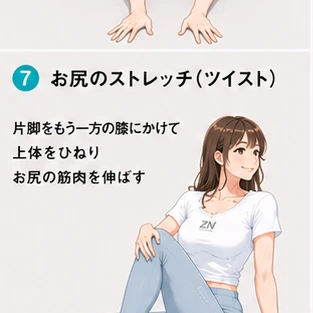
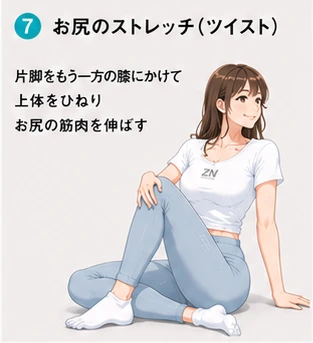
fix: ポーズライブラリを実際の行境界で再切り出し（行高不均等対応）＋実寸をマニフェスト化
Claude-Session: https://claude.ai/code/session_018ivnCRW7SkjvhERUruywpd

diff --git a/src/data/stretchPoses.ts b/src/data/stretchPoses.ts
@@ -13,6 +13,9 @@
 export type StretchPose = {
   /** 画像パス（public/images/stretch-poses/） */
   file: string;
+  /** 画像の実寸（imgタグのwidth/heightにそのまま使う） */
+  width: number;
+  height: number;
   /** カードに書かれているタイトル */
   name: string;
   /** カードに書かれている手順（記事の手順はこれと矛盾しないこと） */
@@ -22,20 +25,20 @@ export type StretchPose = {
 };
 
 export const STRETCH_POSES: StretchPose[] = [
-  { file: '/images/stretch-poses/pose-01.webp', name: '首・肩のストレッチ', desc: '首を横に倒して反対側の肩をやさしく伸ばす', position: '座位または立位' },
-  { file: '/images/stretch-poses/pose-02.webp', name: 'ハムストリングのストレッチ', desc: '片脚を前に伸ばして上体を前に倒し、もも裏を伸ばす', position: '床・座位' },
-  { file: '/images/stretch-poses/pose-03.webp', name: '股関節（開脚前屈）のストレッチ', desc: '脚を開いて上体を前に倒し、股関節まわりをゆっくり伸ばす', position: '床・座位' },
-  { file: '/images/stretch-poses/pose-04.webp', name: 'ふくらはぎのストレッチ（壁）', desc: '壁に手をついて片脚を後ろに引き、ふくらはぎを伸ばす', position: '立位' },
-  { file: '/images/stretch-poses/pose-05.webp', name: '背中のストレッチ（キャット&カウ）', desc: '四つん這いで背中を丸めたり反らせて背骨をやさしく動かす', position: '床・四つん這い' },
-  { file: '/images/stretch-poses/pose-06.webp', name: '胸・肩のストレッチ', desc: '両手を後ろで組んで肩甲骨を寄せ、胸を開き肩まわりを伸ばす', position: '座位または立位' },
-  { file: '/images/stretch-poses/pose-07.webp', name: 'お尻のストレッチ（ツイスト）', desc: '片脚をもう一方の膝にかけて上体をひねり、お尻の筋肉を伸ばす', position: '床・座位' },
-  { file: '/images/stretch-poses/pose-08.webp', name: '大腿四頭筋のストレッチ', desc: '片脚を後ろに曲げて足首を持ち、太ももの前側を伸ばす', position: '立位' },
-  { file: '/images/stretch-poses/pose-09.webp', name: '腰回りのストレッチ（膝抱え込み）', desc: '仰向けで膝を胸に引き寄せて腰まわりをリラックスさせる', position: '床・仰向け' },
-  { file: '/images/stretch-poses/pose-10.webp', name: '体側のストレッチ', desc: '片手を上げて体を横に倒し、脇腹をやさしく伸ばす', position: '床・座位' },
-  { file: '/images/stretch-poses/pose-11.webp', name: '内もものストレッチ（バタフライ）', desc: '足の裏を合わせて膝を開き、内ももを伸ばす', position: '床・座位' },
-  { file: '/images/stretch-poses/pose-12.webp', name: '体幹・背中のストレッチ（スレッド・ザ・ニードル）', desc: '四つん這いから片腕を反対側の下に通し、背中や体側を伸ばす', position: '床・四つん這い' },
-  { file: '/images/stretch-poses/pose-13.webp', name: '前もものストレッチ（ランジ）', desc: '片脚を前に出して後ろ脚の付け根と前ももを伸ばす', position: '床・座位' },
-  { file: '/images/stretch-poses/pose-14.webp', name: '肩甲骨のストレッチ', desc: '腕を前に伸ばして背中を丸め、肩甲骨を広げる', position: '座位または立位' },
-  { file: '/images/stretch-poses/pose-15.webp', name: '足首のストレッチ', desc: '片脚を前に出してつま先を引き上げ、ふくらはぎと足首を伸ばす', position: '床・座位' },
-  { file: '/images/stretch-poses/pose-16.webp', name: '全身のストレッチ（ばんざい）', desc: '両手を上に伸ばして体を大きく伸ばし、全身をリフレッシュ', position: '座位または立位' },
+  { file: '/images/stretch-poses/pose-01.webp', width: 313, height: 366, name: '首・肩のストレッチ', desc: '首を横に倒して反対側の肩をやさしく伸ばす', position: '座位または立位' },
+  { file: '/images/stretch-poses/pose-02.webp', width: 312, height: 366, name: 'ハムストリングのストレッチ', desc: '片脚を前に伸ばして上体を前に倒し、もも裏を伸ばす', position: '床・座位' },
+  { file: '/images/stretch-poses/pose-03.webp', width: 313, height: 366, name: '股関節（開脚前屈）のストレッチ', desc: '脚を開いて上体を前に倒し、股関節まわりをゆっくり伸ばす', position: '床・座位' },
+  { file: '/images/stretch-poses/pose-04.webp', width: 316, height: 366, name: 'ふくらはぎのストレッチ（壁）', desc: '壁に手をついて片脚を後ろに引き、ふくらはぎを伸ばす', position: '立位' },
+  { file: '/images/stretch-poses/pose-05.webp', width: 313, height: 343, name: '背中のストレッチ（キャット&カウ）', desc: '四つん這いで背中を丸めたり反らせて背骨をやさしく動かす', position: '床・四つん這い' },
+  { file: '/images/stretch-poses/pose-06.webp', width: 312, height: 343, name: '胸・肩のストレッチ', desc: '両手を後ろで組んで肩甲骨を寄せ、胸を開き肩まわりを伸ばす', position: '座位または立位' },
+  { file: '/images/stretch-poses/pose-07.webp', width: 313, height: 343, name: 'お尻のストレッチ（ツイスト）', desc: '片脚をもう一方の膝にかけて上体をひねり、お尻の筋肉を伸ばす', position: '床・座位' },
+  { file: '/images/stretch-poses/pose-08.webp', width: 316, height: 343, name: '大腿四頭筋のストレッチ', desc: '片脚を後ろに曲げて足首を持ち、太ももの前側を伸ばす', position: '立位' },
+  { file: '/images/stretch-poses/pose-09.webp', width: 313, height: 291, name: '腰回りのストレッチ（膝抱え込み）', desc: '仰向けで膝を胸に引き寄せて腰まわりをリラックスさせる', position: '床・仰向け' },
+  { file: '/images/stretch-poses/pose-10.webp', width: 312, height: 291, name: '体側のストレッチ', desc: '片手を上げて体を横に倒し、脇腹をやさしく伸ばす', position: '床・座位' },
+  { file: '/images/stretch-poses/pose-11.webp', width: 313, height: 291, name: '内もものストレッチ（バタフライ）', desc: '足の裏を合わせて膝を開き、内ももを伸ばす', position: '床・座位' },
+  { file: '/images/stretch-poses/pose-12.webp', width: 316, height: 291, name: '体幹・背中のストレッチ（スレッド・ザ・ニードル）', desc: '四つん這いから片腕を反対側の下に通し、背中や体側を伸ばす', position: '床・四つん這い' },
+  { file: '/images/stretch-poses/pose-13.webp', width: 313, height: 254, name: '前もものストレッチ（ランジ）', desc: '片脚を前に出して後ろ脚の付け根と前ももを伸ばす', position: '床・座位' },
+  { file: '/images/stretch-poses/pose-14.webp', width: 312, height: 254, name: '肩甲骨のストレッチ', desc: '腕を前に伸ばして背中を丸め、肩甲骨を広げる', position: '座位または立位' },
+  { file: '/images/stretch-poses/pose-15.webp', width: 313, height: 254, name: '足首のストレッチ', desc: '片脚を前に出してつま先を引き上げ、ふくらはぎと足首を伸ばす', position: '床・座位' },
+  { file: '/images/stretch-poses/pose-16.webp', width: 316, height: 254, name: '全身のストレッチ（ばんざい）', desc: '両手を上に伸ばして体を大きく伸ばし、全身をリフレッシュ', position: '座位または立位' },
 ];
